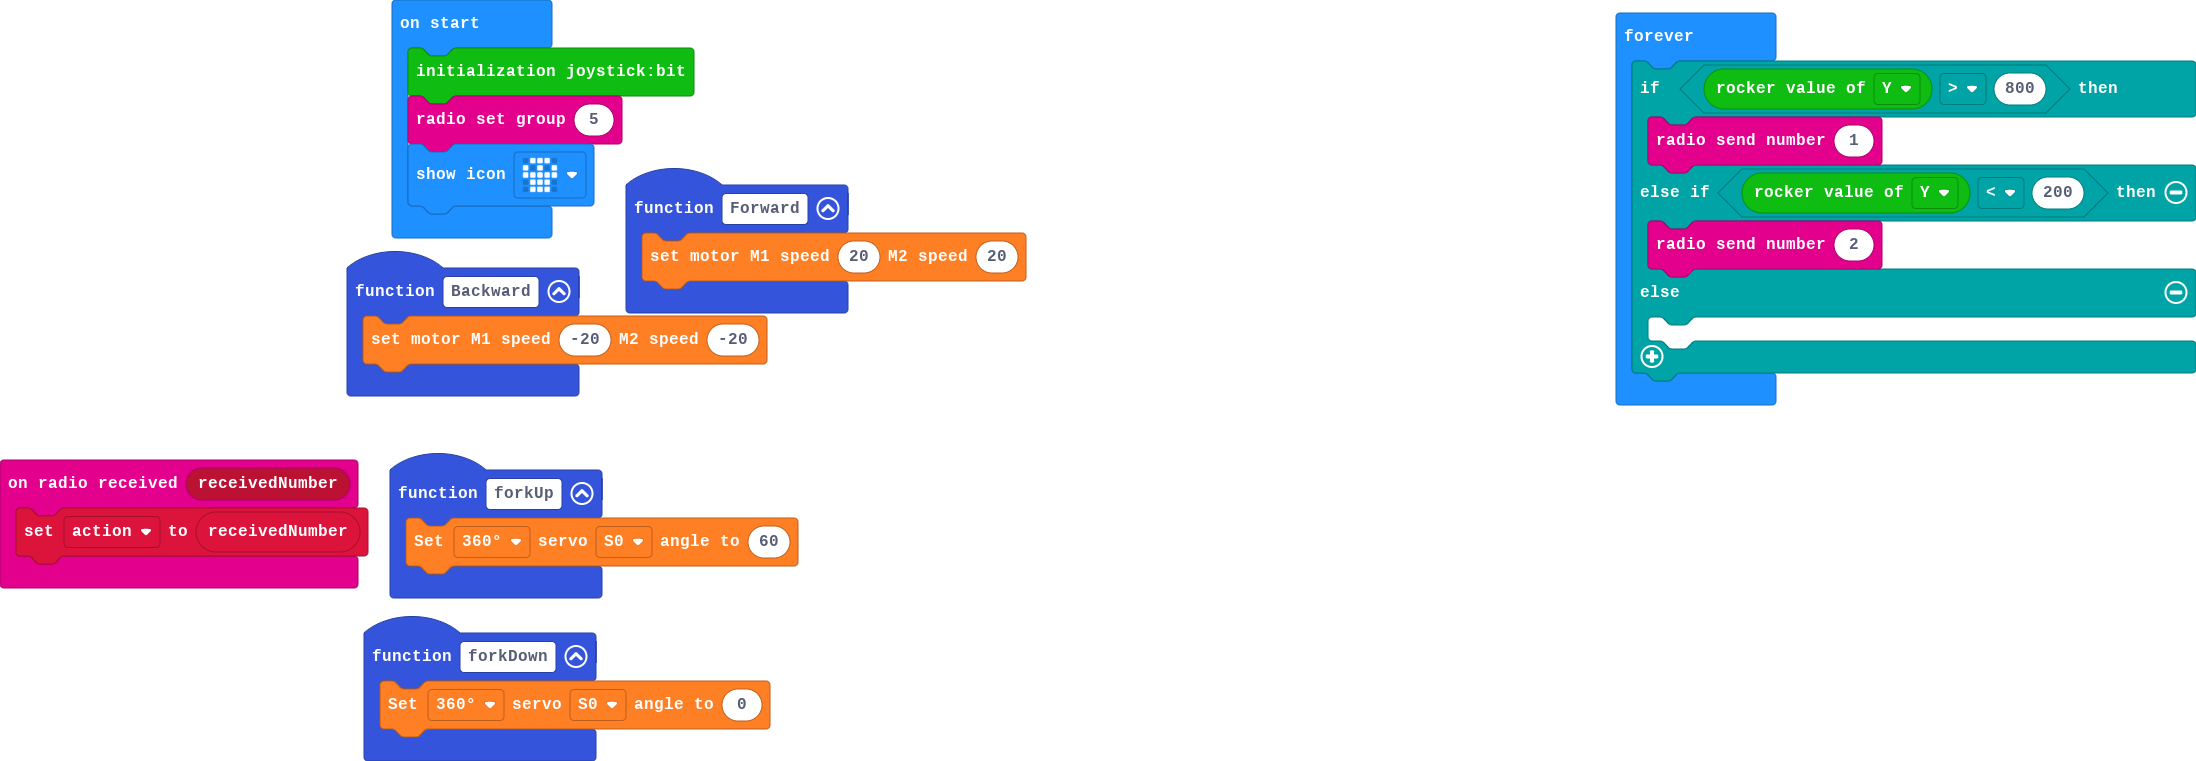
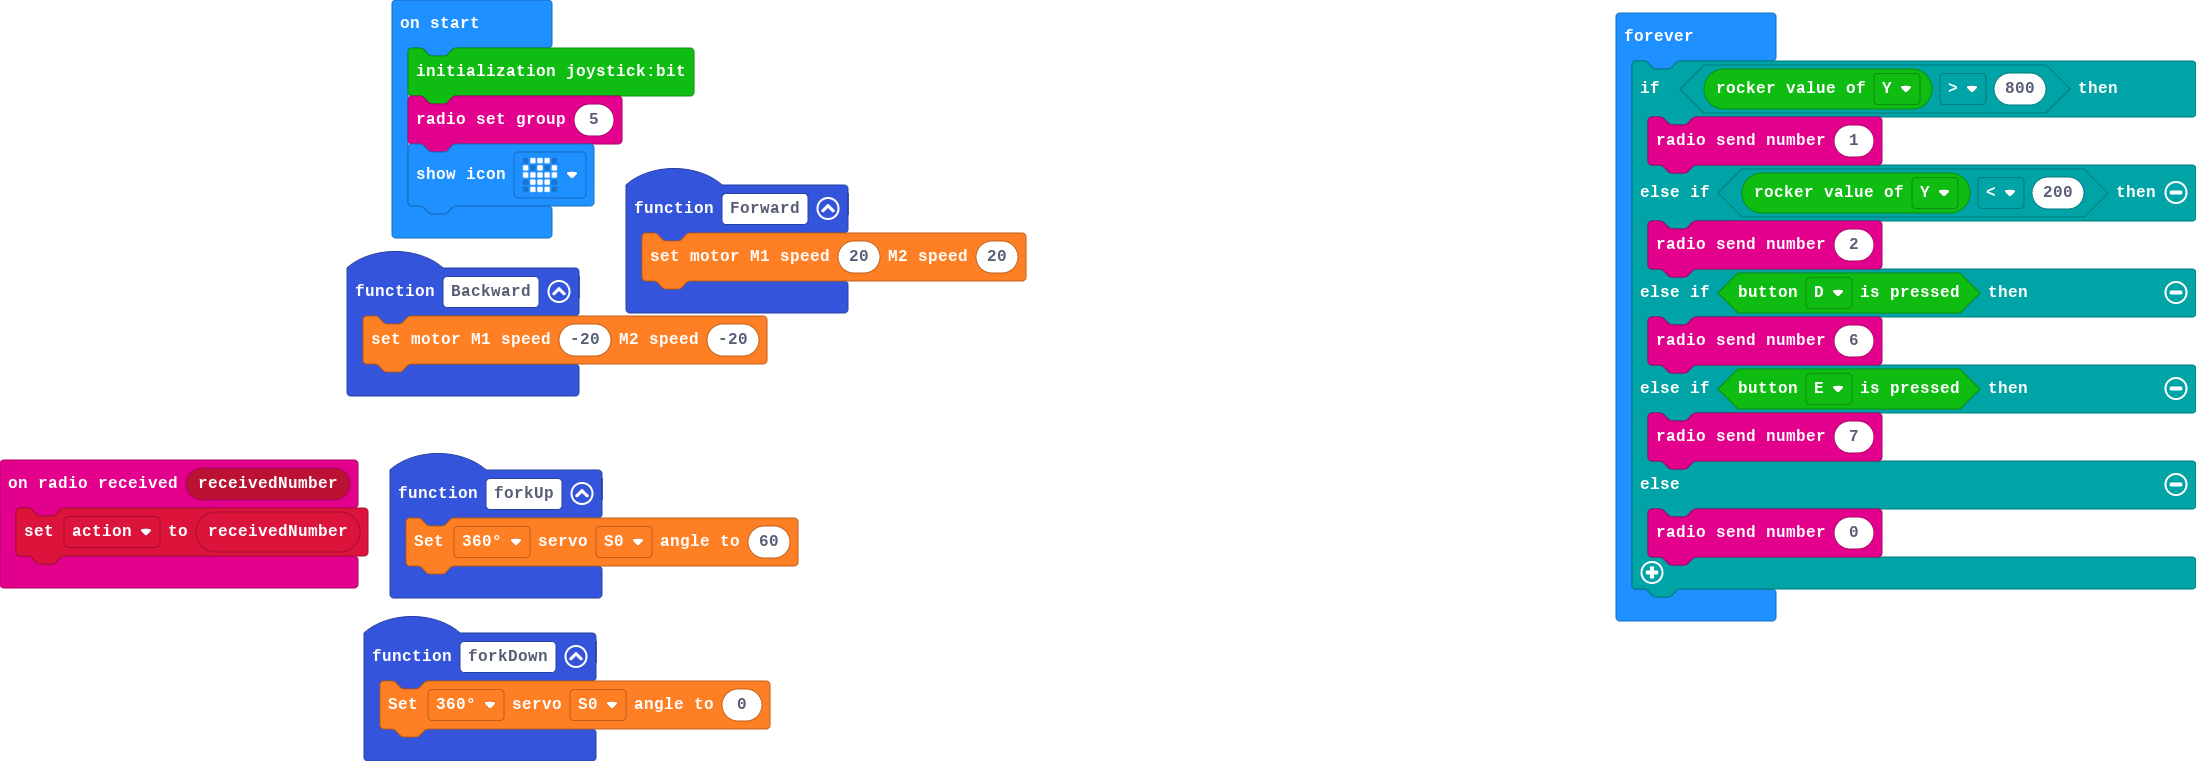
Update main.blocks, main.ts

Changed region(s): [[0.7122, 0.3325, 1.0, 0.816]]

diff --git a/main.ts b/main.ts
@@ -22,7 +22,11 @@ basic.forever(function () {
         radio.sendNumber(1)
     } else if (joystickbit.getRockerValue(joystickbit.rockerType.Y) < 200) {
         radio.sendNumber(2)
+    } else if (joystickbit.getButton(joystickbit.JoystickBitPin.P13)) {
+        radio.sendNumber(6)
+    } else if (joystickbit.getButton(joystickbit.JoystickBitPin.P14)) {
+        radio.sendNumber(7)
     } else {
-    	
+        radio.sendNumber(0)
     }
 })
